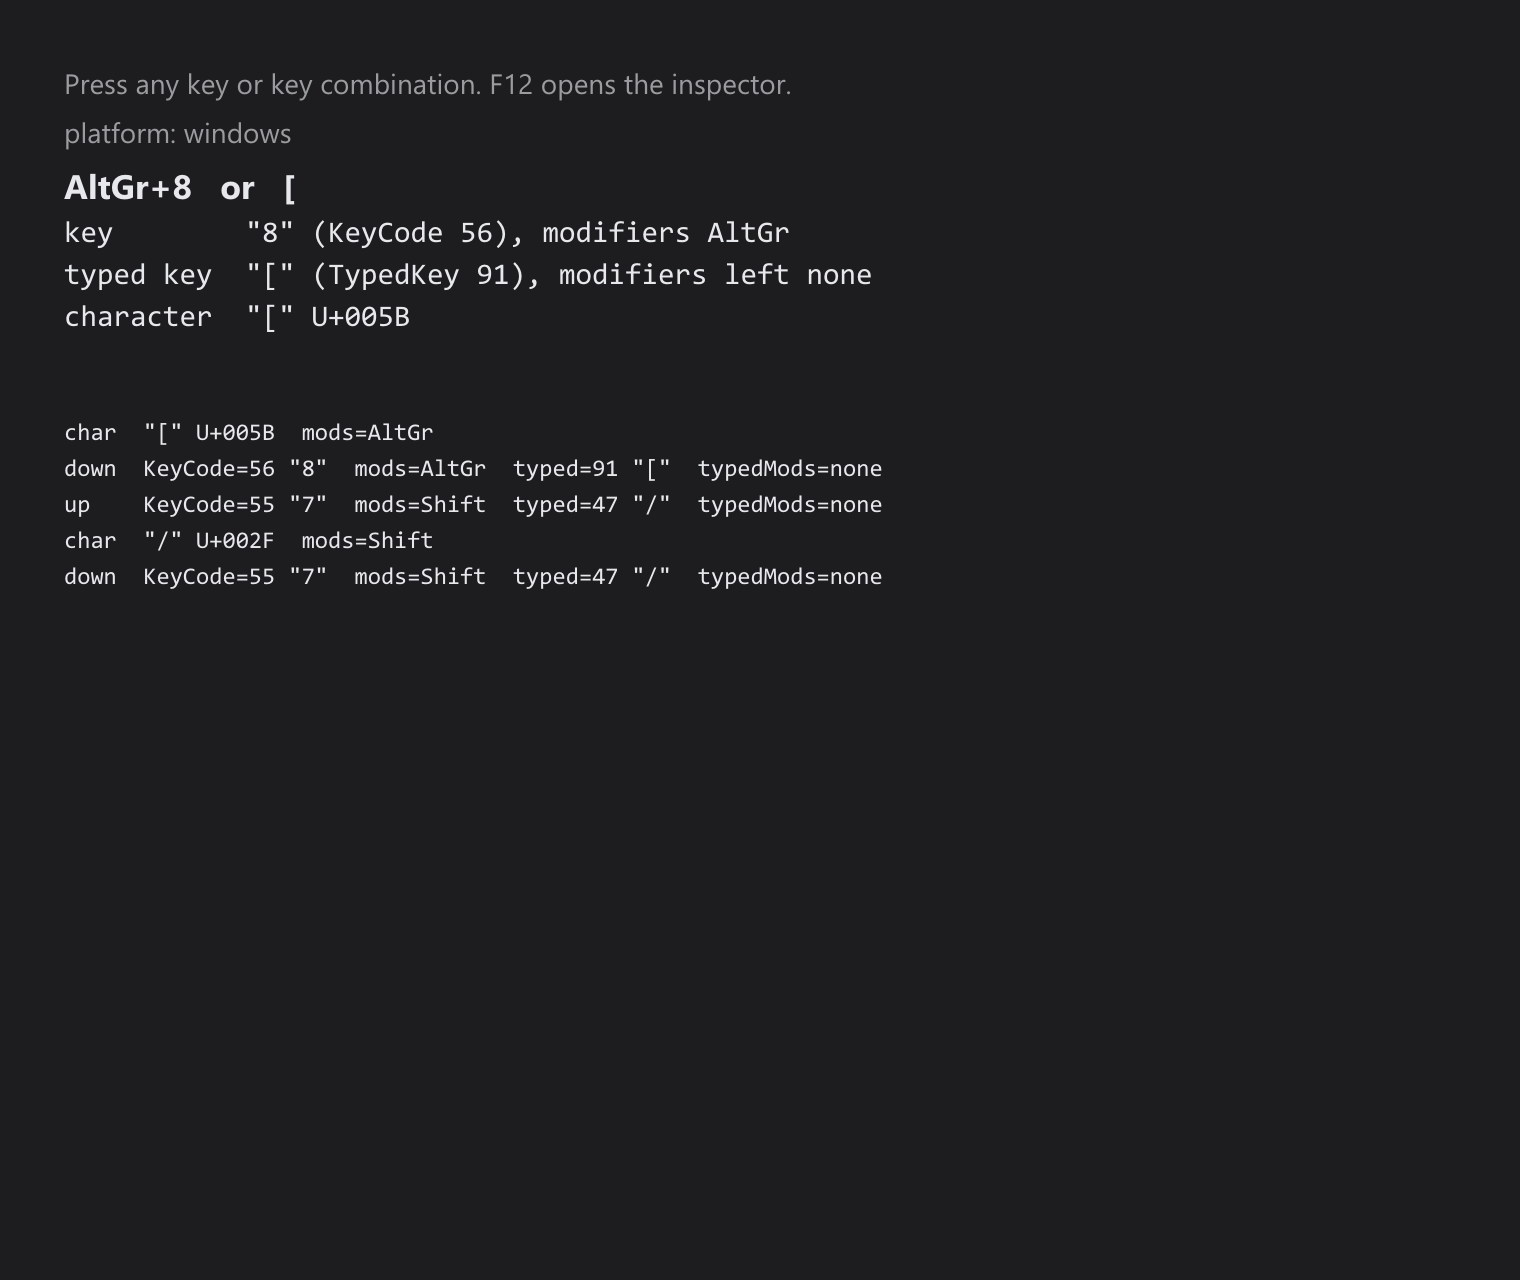
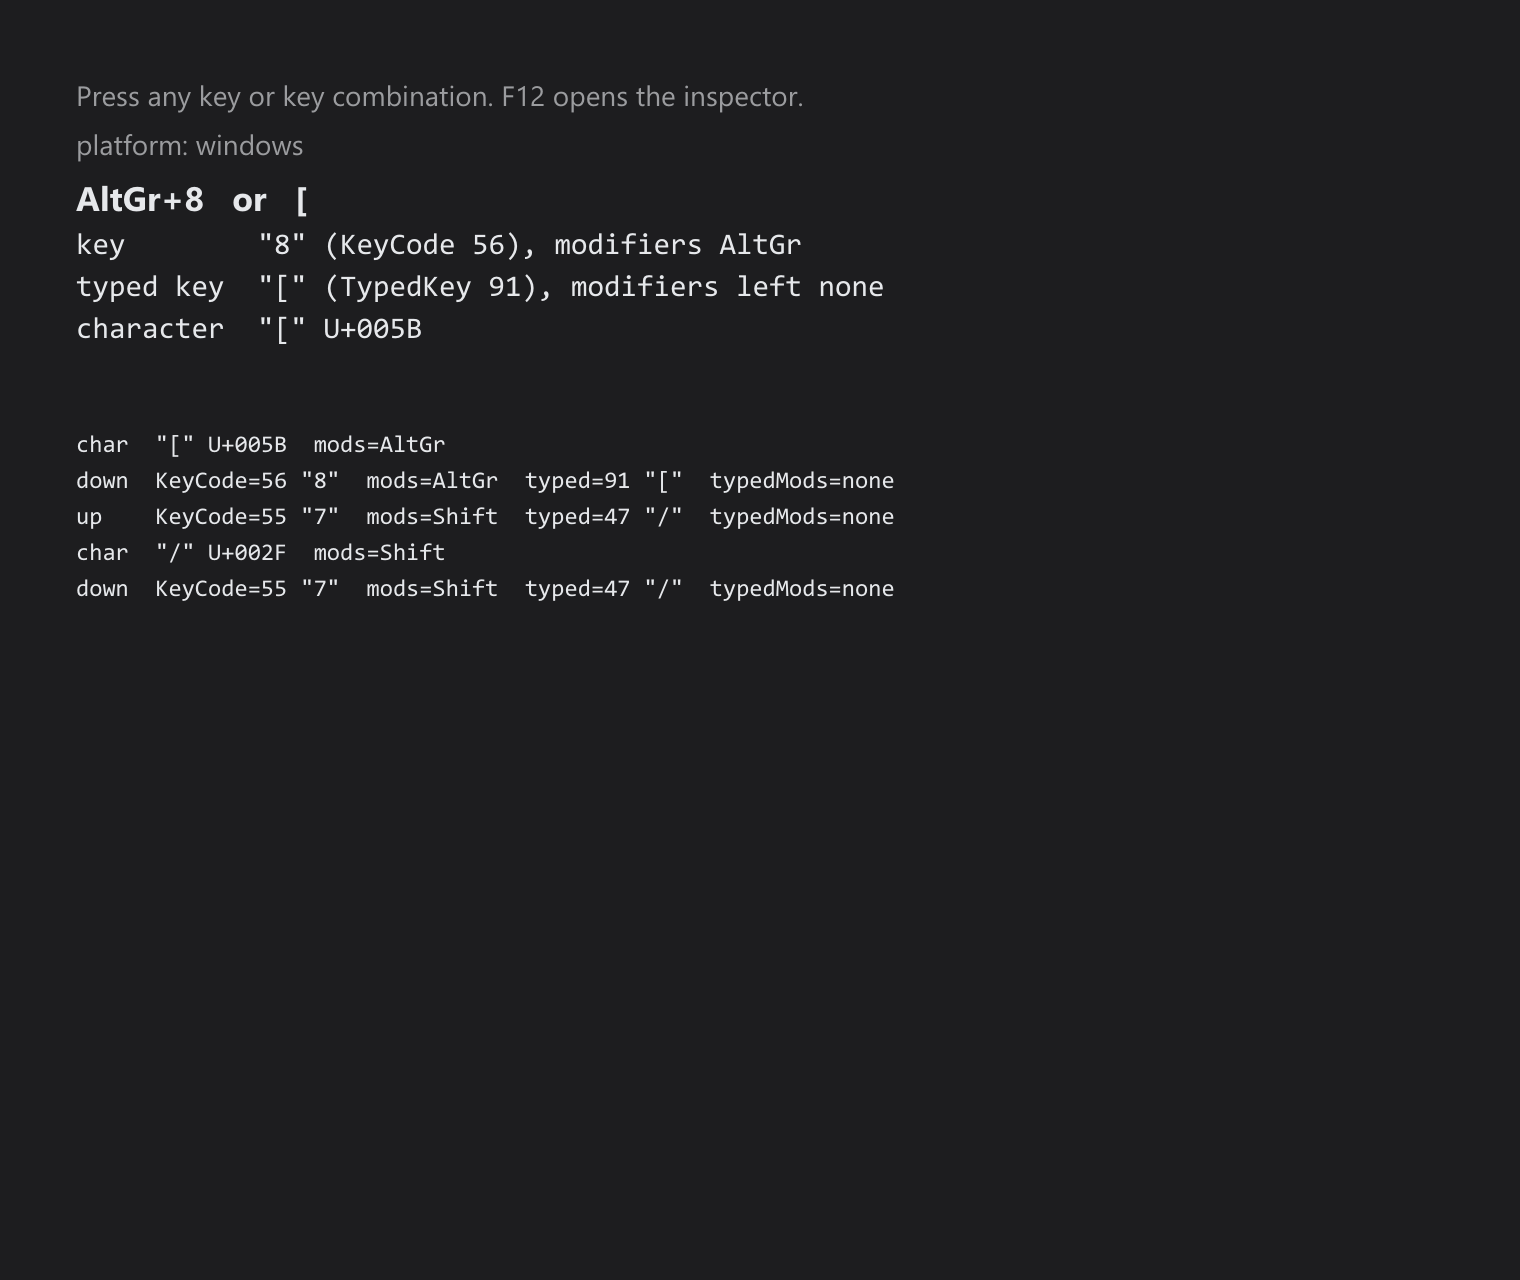
fix(key_inspector): use the theme's large padding for the window inset (#1188)
make prepush's ergo-style gate flagged gui.PadAll(16) as a spelled
inset; the window inset is th.PaddingLarge, as in other examples.
Screenshot regenerated.

Changed region(s): [[0.0309, 0.0625, 0.5875, 0.2812], [0.0309, 0.3125, 0.5875, 0.4688], [0.4638, 0.4375, 0.5875, 0.4688]]

diff --git a/examples/key_inspector/main.go b/examples/key_inspector/main.go
@@ -236,7 +236,7 @@ func mainView(w *gui.Window) gui.View {
 
 	return gui.Column(gui.ContainerCfg{
 		Sizing:  gui.FillFill,
-		Padding: gui.PadAll(16),
+		Padding: th.PaddingLarge,
 		Spacing: gui.SpacingMedium,
 		Content: []gui.View{
 			gui.Column(gui.ContainerCfg{
